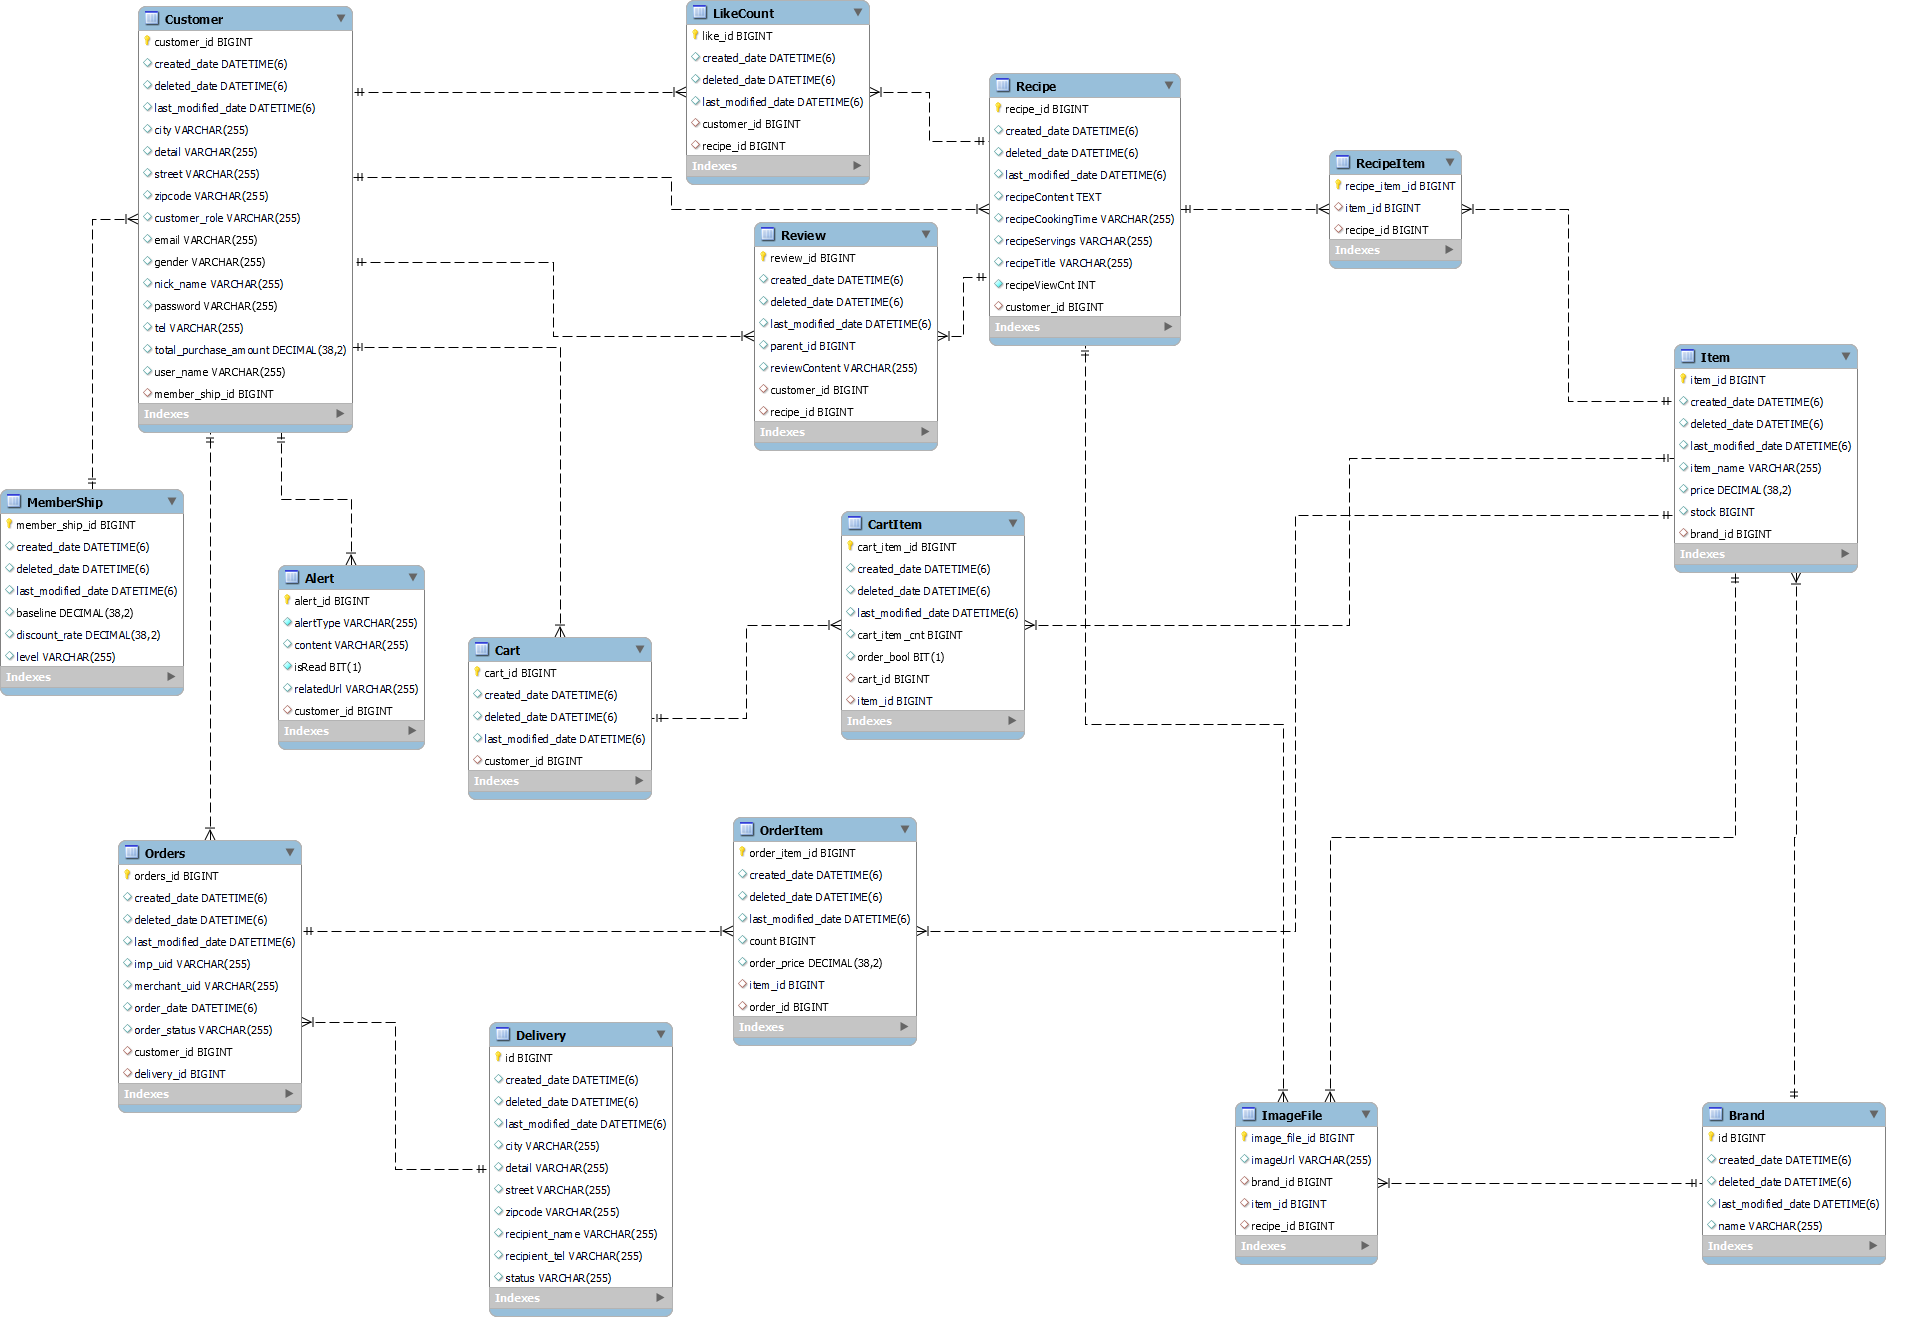
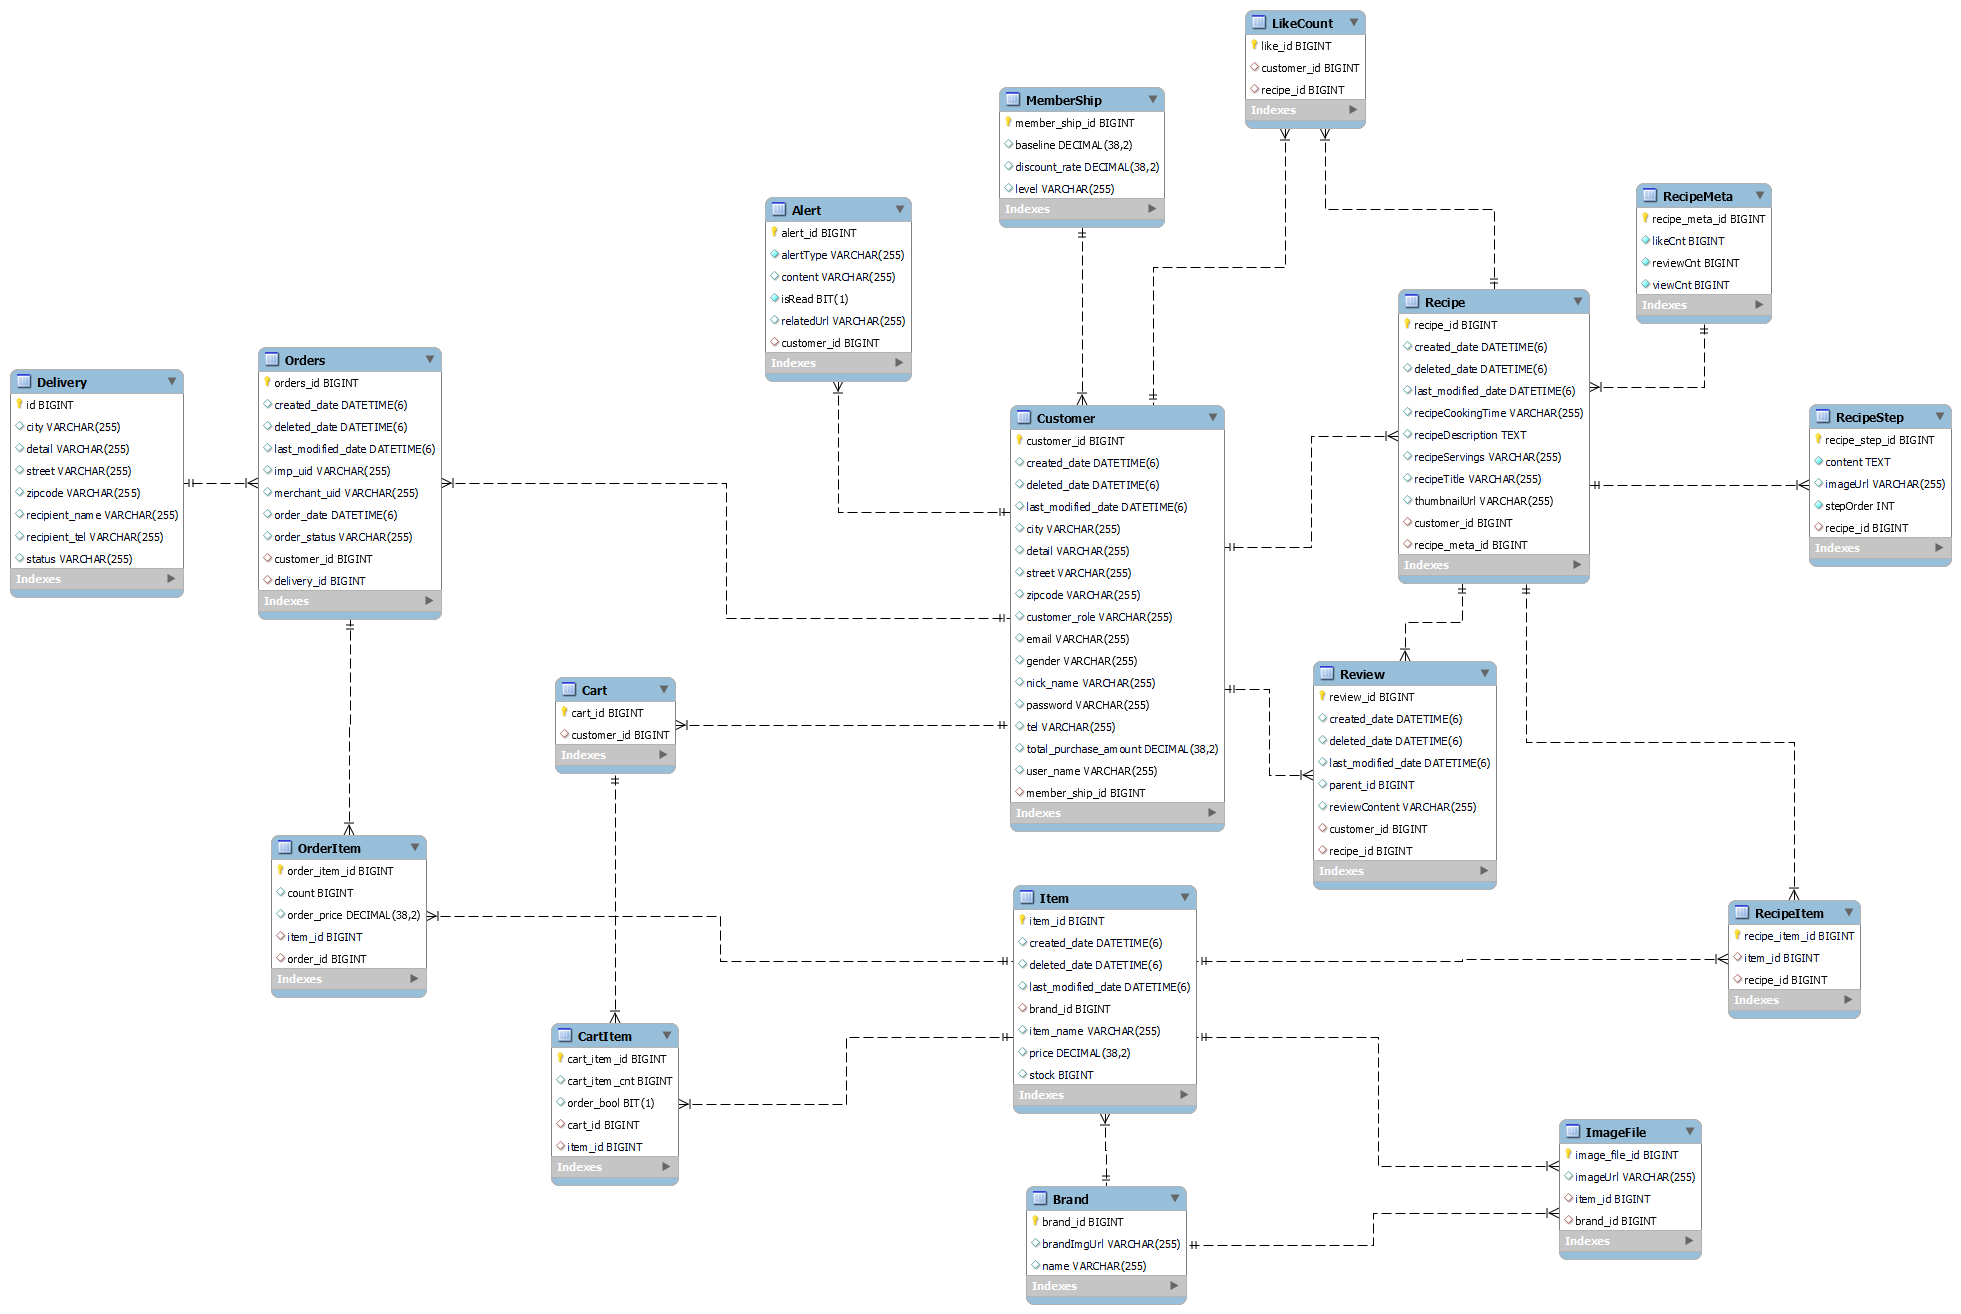
[Docs] erd 이미지 수정

diff --git a/README.md b/README.md
@@ -13,7 +13,7 @@
 - Spring Boot 3.0.6
 - Spring Data JPA
 - Spring Security
-- QueryDsl 5.0
+- QueryDsl 5.1.0
 - MySQL 8.0.33
 - Redis 7.0
 
@@ -34,7 +34,7 @@
 
 ## 🗄 ERD
 
-
+![erd.png](img/today_table_erd.png)
 ---
 
 ## 📡 API 명세서
@@ -59,7 +59,7 @@
 
 - 테스트 커버리지를 일정 수준 이상 확보했으나, 의미 없는 테스트 코드도 포함되어 있어 다음 프로젝트에서는 테스트의 질 중심의 작성 전략 개선 예정
 
-![img.png](img.png)
+![img.png](img/JaCoCo_Report.png)
 
 ## 📝 블로그 정리
 
